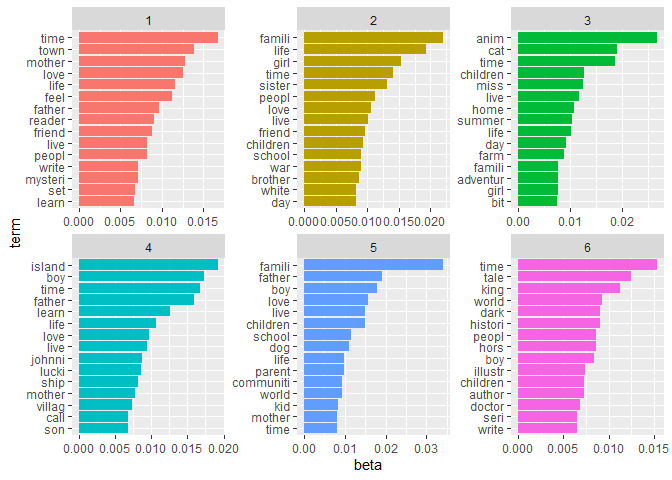
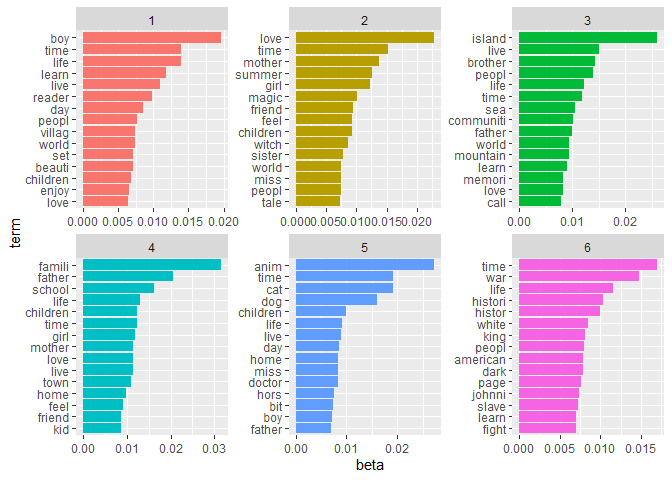
reverting

diff --git a/_posts/2021-04-14-newbery-lda.md b/_posts/2021-04-14-newbery-lda.md
@@ -302,9 +302,9 @@ books. I’m only going to select words that are mentioned at least 20
 times and that appear for at least 10 of the books. After doing this,
 the text for the reviews for the first three books now looks like this:
 
-    ## [1] "classic loon's ability history fascinating tale adventure readers world history history written perspective author history written true chapters loon's death originally published times begins development actual history begins perspective continues time time treated style writing aspect author audience directly telling attitude lived begins ancient time families business forever running discuss writing style history written children grade level aloud parents references children discuss ideas exte"
+    ## [1] "winner medal classic loon's ability history fascinating tale adventure readers world history history written perspective author history reads written true chapters loon's death originally published times begins development actual history begins perspective continues time time treated style writing aspect author audience directly telling attitude lived begins ancient time families business forever running discuss writing style history written children grade level aloud parents references children"
     ## [2] "eccentric doctor favorite children earlier doctor dolittle.in doctor takes person account boy son village meets doctor takes hurt doctor treatment doctor quickly friends boy learns animals remarkable talking amazing creatures previous sequel mysterious friend doctor's called sets train strange events doctor exciting native american son living world.the quirky animal doctor plot approach world desire concern memorable adventure strong appeal compassion share south american discover giant sea wond"
-    ## [3] "century england terrible accident forces fear life sea dark quiet philip's spirit knowledge sea win captain's forced fortune return england battles hero tale search adventure century england terrible accident forces fear life sea dark quiet philip's spirit knowledge sea win captain's forced fortune return england battles hero tale search adventure twenty difficult found difficult adult imagine crazy son 6y0m main boy named mother died father lost sea pages staying father's accident gun leads ric"
+    ## [3] "century england terrible accident forces fear life sea dark quiet philip's spirit knowledge sea win captain's forced fortune return england battles hero tale search adventure century england terrible accident forces fear life sea dark quiet philip's spirit knowledge sea win captain's forced fortune return england battles hero tale search adventure twenty difficult reads found difficult adult imagine crazy son 6y0m main boy named mother died father lost sea pages staying father's accident leads r"
 
 With the text in this form, we are ready to perform LDA. However, one
 problem is that before using LDA, we need to specify how many underlying
@@ -335,26 +335,24 @@ represented in peoples’ reviews of that book. This would help us further
 as we try and give labels to the topics. For example, the books for
 which topic 1 is discussed the most in reviews are:
 
-    ##  [1] "Dobry"                                               
-    ##  [2] "Secret of the Andes"                                 
-    ##  [3] "...And Now Miguel"                                   
-    ##  [4] "Onion John"                                          
-    ##  [5] "From the Mixed-Up Files of Mrs. Basil E. Frankweiler"
-    ##  [6] "Summer of the Swans"                                 
-    ##  [7] "M.C. Higgins the Great"                              
-    ##  [8] "The Westing Game"                                    
-    ##  [9] "Jacob Have I Loved"                                  
-    ## [10] "Walk Two Moons"                                      
-    ## [11] "The View from Saturday"                              
-    ## [12] "Out of the Dust"                                     
-    ## [13] "A Year Down Yonder"                                  
-    ## [14] "A Single Shard"                                      
-    ## [15] "Criss Cross"                                         
+    ##  [1] "Young Fu of the Upper Yangtze"                       
+    ##  [2] "Dobry"                                               
+    ##  [3] "Secret of the Andes"                                 
+    ##  [4] "From the Mixed-Up Files of Mrs. Basil E. Frankweiler"
+    ##  [5] "The Westing Game"                                    
+    ##  [6] "A Visit to William Blake's Inn"                      
+    ##  [7] "The Whipping Boy"                                    
+    ##  [8] "Joyful Noise: Poems for Two Voices"                  
+    ##  [9] "The Midwife's Apprentice"                            
+    ## [10] "Holes"                                               
+    ## [11] "A Single Shard"                                      
+    ## [12] "Crispin: The Cross of Lead"                          
+    ## [13] "The Tale of Despereaux"                              
+    ## [14] "Criss Cross"                                         
+    ## [15] "Good Masters! Sweet Ladies!"                         
     ## [16] "When You Reach Me"                                   
-    ## [17] "Moon Over Manifest"                                  
-    ## [18] "Dead End in Norvelt"                                 
-    ## [19] "Last Stop on Market Street"                          
-    ## [20] "Hello, Universe"
+    ## [17] "Dead End in Norvelt"                                 
+    ## [18] "Last Stop on Market Street"
 
 These books are adventure books that feature boys and are often set at
 various places around the world. This makes sense since some of the top
@@ -363,16 +361,13 @@ words for this topic are “boy”, “world”, “village”, “learn”, and
 
 We can do the same thing for topic 2:
 
-    ##  [1] "Waterless Mountain"           "Invincible Louisa"           
-    ##  [3] "Caddie Woodlawn"              "The Matchlock Gun"           
-    ##  [5] "Strawberry Girl"              "Amos Fortune Free Man"       
-    ##  [7] "Carry On, Mr. Bowditch"       "The Witch of Blackbird Pond" 
-    ##  [9] "I, Juan de Pareja"            "Up a Road Slowly"            
-    ## [11] "The Slave Dancer"             "Roll of Thunder, Hear My Cry"
-    ## [13] "A Gathering of Days"          "Sarah, Plain and Tall"       
-    ## [15] "Lincoln, a Photobiography"    "Number the Stars"            
-    ## [17] "Maniac Magee"                 "Kira-Kira"                   
-    ## [19] "The Girl Who Drank the Moon"
+    ##  [1] "Tales of Silver Lands"       "The Witch of Blackbird Pond"
+    ##  [3] "A Wrinkle in Time"           "Up a Road Slowly"           
+    ##  [5] "Summer of the Swans"         "Bridge to Terabithia"       
+    ##  [7] "The Hero and the Crown"      "Number the Stars"           
+    ##  [9] "Missing May"                 "Walk Two Moons"             
+    ## [11] "The Graveyard Book"          "Moon Over Manifest"         
+    ## [13] "Flora and Ulysses"           "The Girl Who Drank the Moon"
 
 These are all books that might be considered magical and many of them
 have a female lead. This might be why some of the top words for this
@@ -380,50 +375,54 @@ topic are “girl”, “witch”, and “magic”.
 
 Here are the books for topic 3:
 
-    ##  [1] "Hitty, Her First Hundred Years"   "The Cat Who Went to Heaven"      
-    ##  [3] "Roller Skates"                    "Thimble Summer"                  
-    ##  [5] "Rabbit Hill"                      "Miss Hickory"                    
-    ##  [7] "Ginger Pye"                       "Miracles on Maple Hill"          
-    ##  [9] "It's Like This, Cat"              "Mrs. Frisby and the Rats of NIMH"
-    ## [11] "Missing May"
+    ## [1] "Waterless Mountain"          "Call It Courage"            
+    ## [3] "The Twenty-One Balloons"     "Island of the Blue Dolphins"
+    ## [5] "Julie of the Wolves"         "The Giver"
 
 Here they are for topic 4:
 
-    ##  [1] "Call It Courage"             "Adam of the Road"           
-    ##  [3] "Johnny Tremain"              "The Door in the Wall"       
-    ##  [5] "The Wheel on the School"     "Island of the Blue Dolphins"
-    ##  [7] "The Bronze Bow"              "A Wrinkle in Time"          
-    ##  [9] "Shadow of a Bull"            "Julie of the Wolves"        
-    ## [11] "The Whipping Boy"            "The Midwife's Apprentice"   
-    ## [13] "Crispin: The Cross of Lead"  "The Higher Power of Lucky"
+    ##  [1] "Invincible Louisa"            "Caddie Woodlawn"             
+    ##  [3] "Thimble Summer"               "Strawberry Girl"             
+    ##  [5] "...And Now Miguel"            "The Wheel on the School"     
+    ##  [7] "Onion John"                   "Sounder"                     
+    ##  [9] "M.C. Higgins the Great"       "Roll of Thunder, Hear My Cry"
+    ## [11] "A Gathering of Days"          "Jacob Have I Loved"          
+    ## [13] "Dicey's Song"                 "Dear Mr. Henshaw"            
+    ## [15] "Sarah, Plain and Tall"        "Maniac Magee"                
+    ## [17] "The View from Saturday"       "Out of the Dust"             
+    ## [19] "Bud, Not Buddy"               "A Year Down Yonder"          
+    ## [21] "Kira-Kira"                    "The Higher Power of Lucky"   
+    ## [23] "The Crossover"                "Hello, Universe"             
+    ## [25] "Merci Suarez Changes Gears"
 
 Topic 5:
 
-    ##  [1] "The Twenty-One Balloons"    "Sounder"                   
-    ##  [3] "Bridge to Terabithia"       "Dicey's Song"              
-    ##  [5] "Dear Mr. Henshaw"           "Shiloh"                    
-    ##  [7] "The Giver"                  "Holes"                     
-    ##  [9] "Bud, Not Buddy"             "The Graveyard Book"        
-    ## [11] "The One and Only Ivan"      "Flora and Ulysses"         
-    ## [13] "The Crossover"              "Merci Suarez Changes Gears"
+    ##  [1] "The Voyages of Doctor Dolittle"   "The Cat Who Went to Heaven"      
+    ##  [3] "Roller Skates"                    "Adam of the Road"                
+    ##  [5] "Rabbit Hill"                      "Miss Hickory"                    
+    ##  [7] "The Door in the Wall"             "Ginger Pye"                      
+    ##  [9] "Miracles on Maple Hill"           "It's Like This, Cat"             
+    ## [11] "Mrs. Frisby and the Rats of NIMH" "Shiloh"                          
+    ## [13] "The One and Only Ivan"
 
 Topic 6:
 
-    ##  [1] "The Story of Mankind"               "The Voyages of Doctor Dolittle"    
-    ##  [3] "The Dark Frigate"                   "Tales of Silver Lands"             
-    ##  [5] "Shen of the Sea"                    "Smoky the Cowhorse"                
-    ##  [7] "Gay Neck, The Story of a Pigeon"    "The Trumpeter of Krakow"           
-    ##  [9] "Young Fu of the Upper Yangtze"      "The White Stag"                    
-    ## [11] "Daniel Boone"                       "King of the Wind"                  
-    ## [13] "Rifles for Watie"                   "The High King"                     
-    ## [15] "The Grey King"                      "A Visit to William Blake's Inn"    
-    ## [17] "The Hero and the Crown"             "Joyful Noise: Poems for Two Voices"
-    ## [19] "The Tale of Despereaux"             "Good Masters! Sweet Ladies!"
+    ##  [1] "The Story of Mankind"            "The Dark Frigate"               
+    ##  [3] "Shen of the Sea"                 "Smoky the Cowhorse"             
+    ##  [5] "Gay Neck, The Story of a Pigeon" "The Trumpeter of Krakow"        
+    ##  [7] "Hitty, Her First Hundred Years"  "The White Stag"                 
+    ##  [9] "Daniel Boone"                    "The Matchlock Gun"              
+    ## [11] "Johnny Tremain"                  "King of the Wind"               
+    ## [13] "Amos Fortune Free Man"           "Carry On, Mr. Bowditch"         
+    ## [15] "Rifles for Watie"                "The Bronze Bow"                 
+    ## [17] "Shadow of a Bull"                "I, Juan de Pareja"              
+    ## [19] "The High King"                   "The Slave Dancer"               
+    ## [21] "The Grey King"                   "Lincoln, a Photobiography"
 
 We can do this with the other topics as well. I did this and these are
 the titles that I came up with for the topics discovered with LDA:
 
-1.  Boys and adventures around the world
+1.  Boy adventures around the world
 2.  Girls and magic
 3.  Relationships and cultures
 4.  Kids and navigating family relationships
